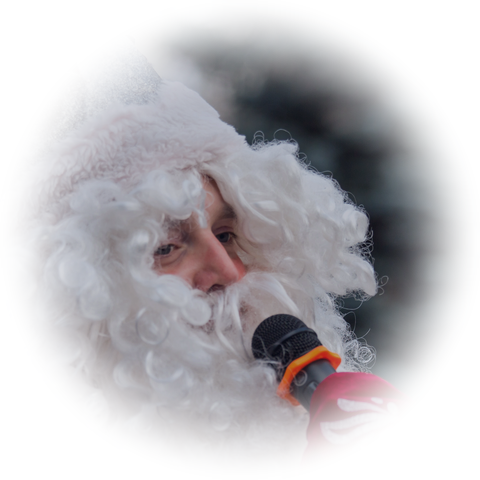
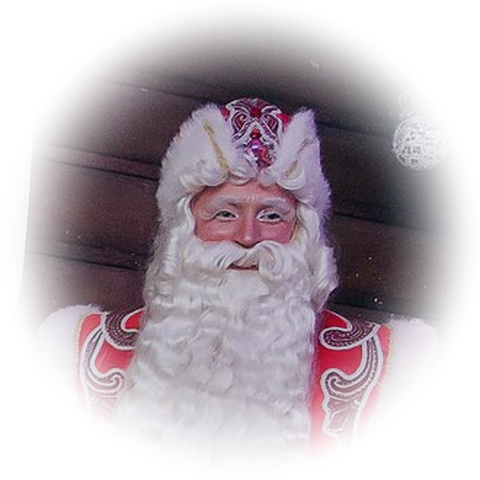
Новые фото Деда Мороза и Снегурочки, финальная фраза «дорогие друзья»

diff --git a/index.html b/index.html
@@ -145,7 +145,7 @@ kbd { font: 500 0.78rem var(--ui); border: 1px solid var(--line); border-radius:
     </ol>
     <button class="primary" id="go" type="button">Начать</button>
     <p class="small">Чтобы увидеть полночь сразу, откройте настройки и нажмите «Показать полночь сейчас».</p>
-    <p class="credits">Фото: «<a href="https://commons.wikimedia.org/wiki/File:%D0%A1%D0%BF%D0%B0%D1%81%D1%81%D0%BA%D0%B0%D1%8F_%D0%B1%D0%B0%D1%88%D0%BD%D1%8F_%D0%94%D0%B5%D0%BA%D0%B0%D0%B1%D1%80%D1%8C_2015%D0%B3.jpg" target="_blank" rel="noopener">Спасская башня Декабрь 2015г.</a>», автор WM wm WM, CC BY-SA 4.0. Бой курантов и гимн: <a href="https://commons.wikimedia.org/wiki/File:%D0%9D%D0%BE%D0%B2%D0%BE%D0%B3%D0%BE%D0%B4%D0%BD%D0%B5%D0%B5_%D0%BE%D0%B1%D1%80%D0%B0%D1%89%D0%B5%D0%BD%D0%B8%D0%B5_%D0%94%D0%BC%D0%B8%D1%82%D1%80%D0%B8%D1%8F_%D0%9C%D0%B5%D0%B4%D0%B2%D0%B5%D0%B4%D0%B5%D0%B2%D0%B0_31_%D0%B4%D0%B5%D0%BA%D0%B0%D0%B1%D1%80%D1%8F_2011._Kremlin.ru.webm" target="_blank" rel="noopener">Kremlin.ru, 31.12.2011</a>, CC BY 4.0. Портреты в открытке: <a href="https://commons.wikimedia.org/wiki/File:Izmaylovo-ded-moroz-holiday-2025-father-frost.jpg" target="_blank" rel="noopener">Дед Мороз</a> и <a href="https://commons.wikimedia.org/wiki/File:Izmaylovo-ded-moroz-holiday-2025-snegurochka-smiling.jpg" target="_blank" rel="noopener">Снегурочка</a>, праздник в Измайлове, CC BY-SA 3.0, Wikimedia Commons. Циферблаты, стрелки, снег и салют дорисованы.</p>
+    <p class="credits">Фото: «<a href="https://commons.wikimedia.org/wiki/File:%D0%A1%D0%BF%D0%B0%D1%81%D1%81%D0%BA%D0%B0%D1%8F_%D0%B1%D0%B0%D1%88%D0%BD%D1%8F_%D0%94%D0%B5%D0%BA%D0%B0%D0%B1%D1%80%D1%8C_2015%D0%B3.jpg" target="_blank" rel="noopener">Спасская башня Декабрь 2015г.</a>», автор WM wm WM, CC BY-SA 4.0. Бой курантов и гимн: <a href="https://commons.wikimedia.org/wiki/File:%D0%9D%D0%BE%D0%B2%D0%BE%D0%B3%D0%BE%D0%B4%D0%BD%D0%B5%D0%B5_%D0%BE%D0%B1%D1%80%D0%B0%D1%89%D0%B5%D0%BD%D0%B8%D0%B5_%D0%94%D0%BC%D0%B8%D1%82%D1%80%D0%B8%D1%8F_%D0%9C%D0%B5%D0%B4%D0%B2%D0%B5%D0%B4%D0%B5%D0%B2%D0%B0_31_%D0%B4%D0%B5%D0%BA%D0%B0%D0%B1%D1%80%D1%8F_2011._Kremlin.ru.webm" target="_blank" rel="noopener">Kremlin.ru, 31.12.2011</a>, CC BY 4.0. Портреты в открытке: <a href="https://commons.wikimedia.org/wiki/File:Dedmoroz2.jpg" target="_blank" rel="noopener">Дед Мороз и Снегурочка</a>, CC BY-SA 4.0, Wikimedia Commons. Циферблаты, стрелки, снег и салют дорисованы.</p>
   </div>
 </div>
 
@@ -278,7 +278,7 @@ kbd { font: 500 0.78rem var(--ui); border: 1px solid var(--line); border-radius:
 
   <section>
     <h3>Источники</h3>
-    <p class="hint">Фото: WM wm WM, «Спасская башня Декабрь 2015г.», CC BY-SA 4.0, Wikimedia Commons. Бой курантов и гимн: Kremlin.ru, новогоднее обращение 31.12.2011, CC BY 4.0, Wikimedia Commons. «В лесу родилась ёлочка»: музыка Л. Бекмана (1905), общественное достояние; аранжировка синтезируется в браузере. Портреты Деда Мороза и Снегурочки в открытке: фото с праздника в Измайлове, CC BY-SA 3.0, Wikimedia Commons. Голос поздравления синтезирован нейросетью (Microsoft, ru-RU-DmitryNeural и ru-RU-SvetlanaNeural). Циферблаты, стрелки, снег и салют дорисованы поверх фото.</p>
+    <p class="hint">Фото: WM wm WM, «Спасская башня Декабрь 2015г.», CC BY-SA 4.0, Wikimedia Commons. Бой курантов и гимн: Kremlin.ru, новогоднее обращение 31.12.2011, CC BY 4.0, Wikimedia Commons. «В лесу родилась ёлочка»: музыка Л. Бекмана (1905), общественное достояние; аранжировка синтезируется в браузере. Портреты Деда Мороза и Снегурочки в открытке: <a href="https://commons.wikimedia.org/wiki/File:Dedmoroz2.jpg" target="_blank" rel="noopener">фото</a>, CC BY-SA 4.0, Wikimedia Commons. Голос поздравления синтезирован нейросетью (Microsoft, ru-RU-DmitryNeural и ru-RU-SvetlanaNeural). Циферблаты, стрелки, снег и салют дорисованы поверх фото.</p>
   </section>
 </aside>
 
@@ -394,7 +394,7 @@ const GREET = {
     "Мы пришли к вам в этот зимний вечер, чтобы пожелать счастья и удачи.",
     "Пусть Новый год принесёт тепло в ваш дом и радость в каждый день.",
     "Пусть куранты пробьют двенадцать, и всё загаданное исполнится!",
-    "С Новым годом, дорогие наши!"
+    "С Новым годом, дорогие друзья!"
   ],
   who: ["Снегурочка", "Дед Мороз", "Снегурочка", "Дед Мороз", "Дед Мороз"],
   gap: 0.55,
